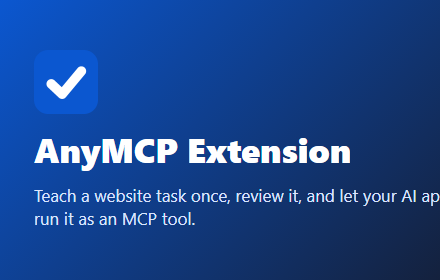
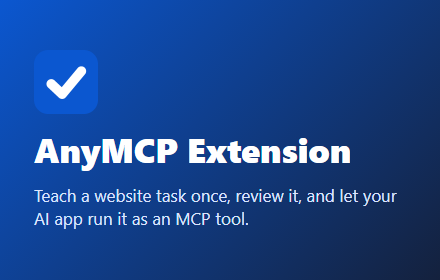
Store promo tile: fix the clipped tagline; refuse images that overflow
The 440x280 tile had no border-box sizing, so its 34 px padding made the page
508 px wide and cut "AnyMCP Extension" and the tagline off at the right edge.
store-assets.ts now checks every heading, paragraph, caption and logo lies
inside the image before writing it (it failed on the old tile, passes on all
six images now). The five 1280x800 images are unchanged byte for byte.

Changed region(s): [[0.0591, 0.7429, 0.5614, 0.8286], [0.9159, 0.6571, 1.0, 0.7429]]

diff --git a/scripts/store-assets.ts b/scripts/store-assets.ts
@@ -37,20 +37,38 @@ p{font-size:22px;line-height:1.45;margin:0;color:#dbe6ff;max-width:560px}
 <div class="note">Render of the extension’s side-panel page with synthetic data (Acme Support Portal fixture). Not affiliated with Google or Anthropic.</div>`;
 
 const promo = `<!doctype html><meta charset="utf-8"><style>
-body{margin:0;width:440px;height:280px;font-family:system-ui,"Segoe UI",sans-serif;color:#fff;background:linear-gradient(135deg,#0b57d0,#14213d);display:flex;flex-direction:column;justify-content:center;padding:0 34px;gap:12px}
+*{box-sizing:border-box} body{margin:0;width:440px;height:280px;font-family:system-ui,"Segoe UI",sans-serif;color:#fff;background:linear-gradient(135deg,#0b57d0,#14213d);display:flex;flex-direction:column;justify-content:center;padding:0 34px;gap:12px}
 img{width:64px;height:64px} h1{margin:0;font-size:34px;font-weight:800} p{margin:0;font-size:17px;line-height:1.35;color:#dbe6ff}</style>
 <img src="${icon}"><h1>AnyMCP Extension</h1><p>Teach a website task once, review it, and let your AI app run it as an MCP tool.</p>`;
 
 for (const s of slides) if (!existsSync(raw(s.src))) throw new Error(`missing ${raw(s.src)} — run: npm run screenshots`);
 const browser = await chromium.launch();
 const page = await browser.newPage({ viewport: { width: 1280, height: 800 } });
+
+// Refuse to write an image whose text or logo is cut off at an edge (the first promo tile was: its padding pushed
+// the tagline past 440 px). The panel screenshot is excluded: it is cropped on purpose and fades out.
+async function assertFits(name: string) {
+  const outside = await page.evaluate(() => {
+    const found: string[] = [];
+    for (const el of document.querySelectorAll<HTMLElement>("h1, p, .brand, .note, body > img")) {
+      const r = el.getBoundingClientRect();
+      if (r.left < 0 || r.top < 0 || r.right > innerWidth + 0.5 || r.bottom > innerHeight + 0.5 || el.scrollWidth > el.clientWidth + 1)
+        found.push(`<${el.tagName.toLowerCase()}${el.className ? ` class="${el.className}"` : ""}> at x ${Math.round(r.left)}–${Math.round(r.right)}, y ${Math.round(r.top)}–${Math.round(r.bottom)}`);
+    }
+    return found.length ? `${found.join("; ")} (image is ${innerWidth}×${innerHeight})` : "";
+  });
+  if (outside) throw new Error(`${name}: content does not fit: ${outside}`);
+}
+
 for (const s of slides) {
   await page.setContent(frame(s));
+  await assertFits(s.file);
   await page.screenshot({ path: resolve(root, "store/screenshots", s.file) });
   console.log("wrote", s.file);
 }
 await page.setViewportSize({ width: 440, height: 280 });
 await page.setContent(promo);
+await assertFits("promo-small-440x280.png");
 await page.screenshot({ path: resolve(root, "store/screenshots/promo-small-440x280.png") });
 console.log("wrote promo-small-440x280.png");
 await browser.close();
